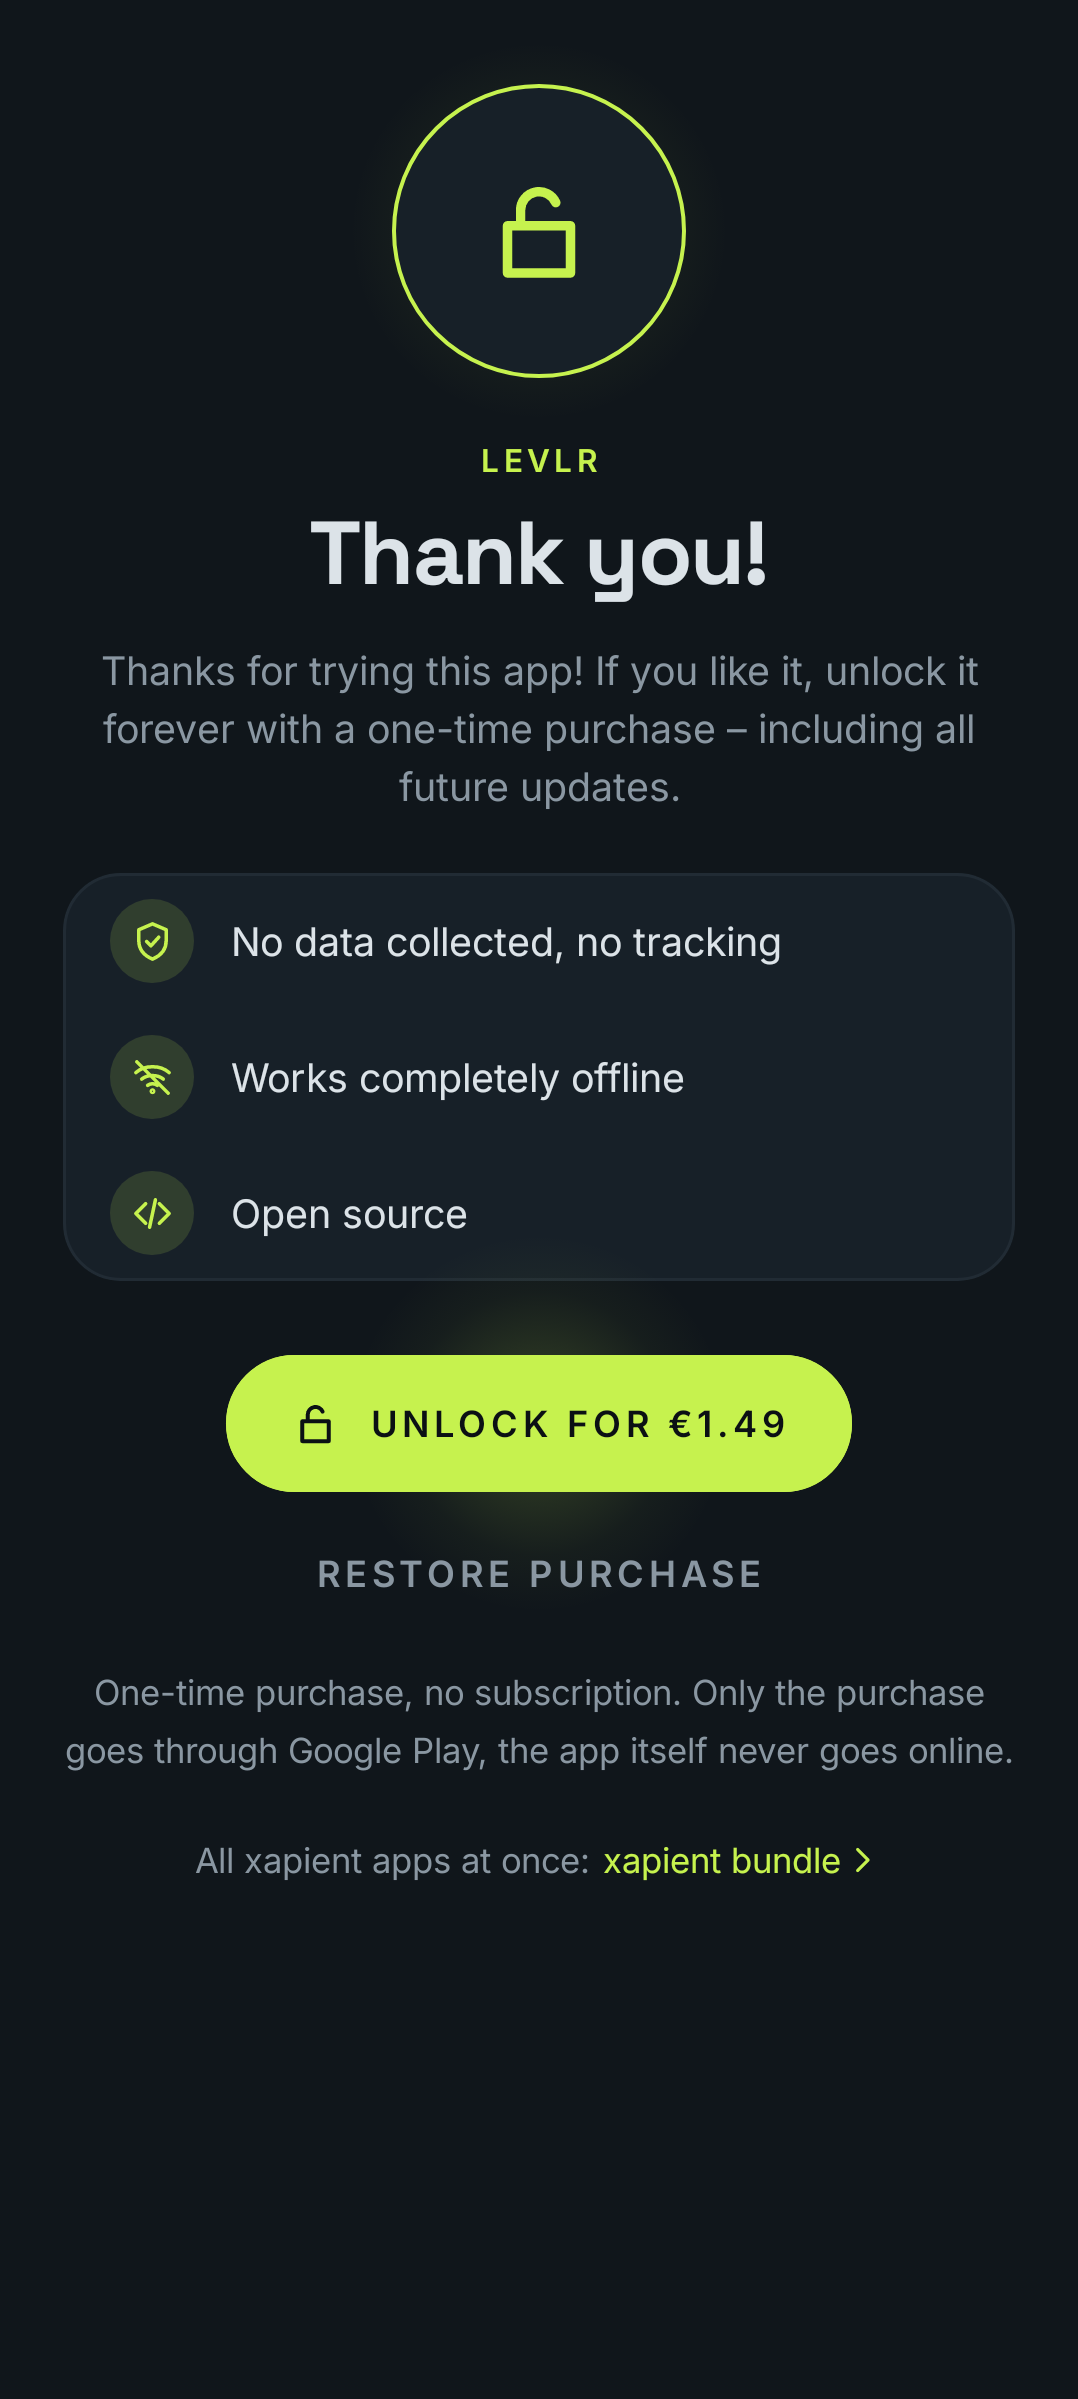
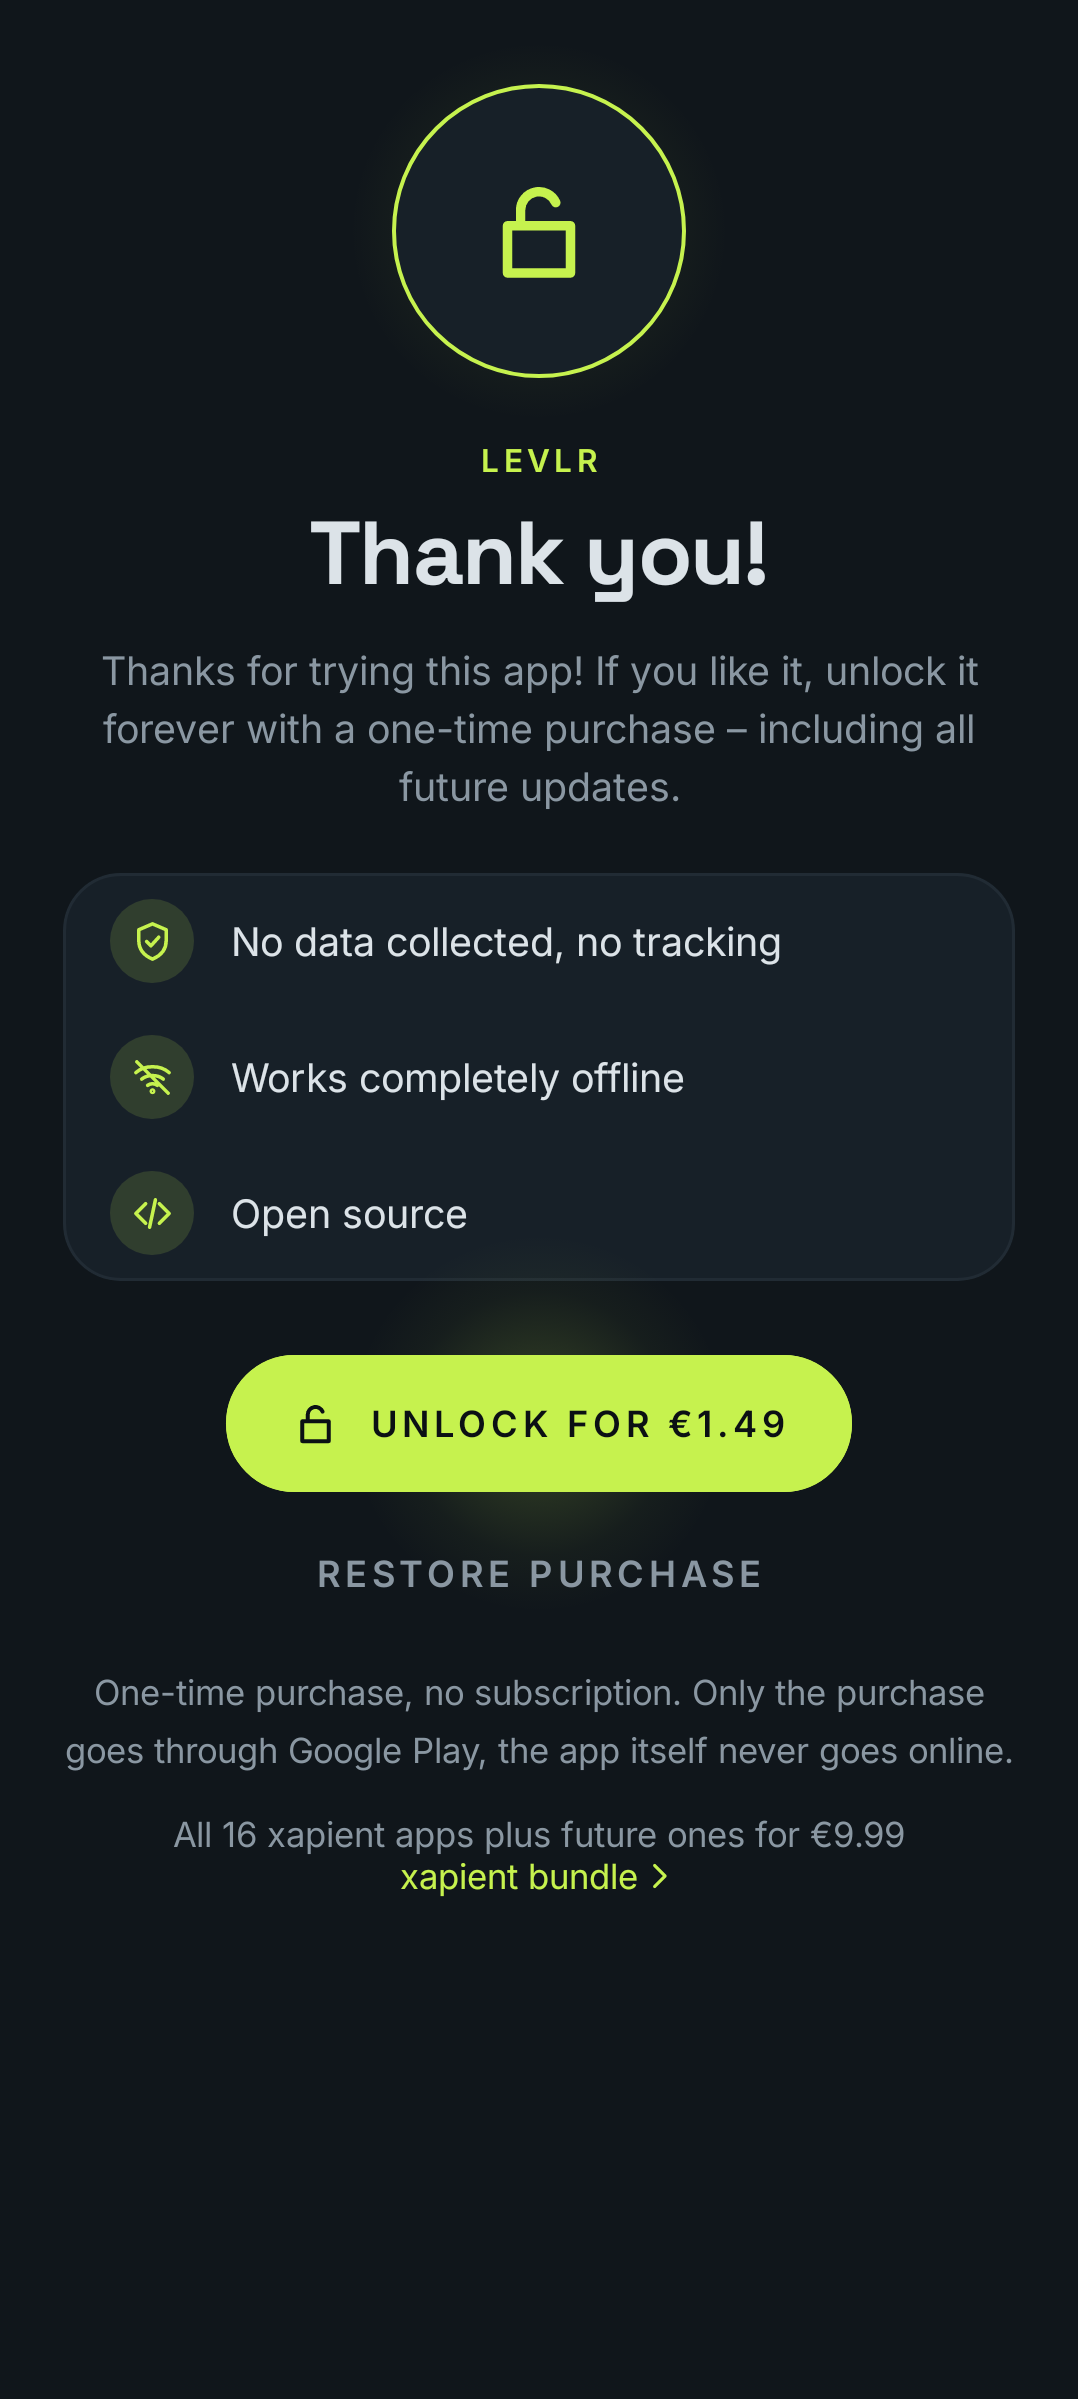
Dankes-Screen: Bundle-Hinweis mit Anzahl, kuenftigen Apps und Preis; Test Bundle ohne Sperre

Changed region(s): [[0.1837, 0.7403, 0.8265, 0.802]]

diff --git a/core/ui/src/androidMain/kotlin/solutions/xapient/aapps/core/ui/ThanksScreen.kt b/core/ui/src/androidMain/kotlin/solutions/xapient/aapps/core/ui/ThanksScreen.kt
@@ -3,11 +3,11 @@ package solutions.xapient.aapps.core.ui
 import androidx.compose.foundation.clickable
 import androidx.compose.foundation.interaction.MutableInteractionSource
 import androidx.compose.foundation.interaction.collectIsPressedAsState
+import androidx.compose.foundation.layout.Column
 import androidx.compose.foundation.layout.Row
-import androidx.compose.foundation.layout.Spacer
 import androidx.compose.foundation.layout.heightIn
 import androidx.compose.foundation.layout.padding
-import androidx.compose.foundation.layout.width
+import androidx.compose.foundation.layout.widthIn
 import androidx.compose.foundation.text.BasicText
 import androidx.compose.runtime.Composable
 import androidx.compose.runtime.getValue
@@ -17,6 +17,7 @@ import androidx.compose.ui.Modifier
 import androidx.compose.ui.platform.LocalContext
 import androidx.compose.ui.res.stringResource
 import androidx.compose.ui.semantics.Role
+import androidx.compose.ui.text.style.TextAlign
 import androidx.compose.ui.unit.dp
 import solutions.xapient.aapps.core.billing.BundleKey
 import solutions.xapient.aapps.core.billing.GateState
@@ -71,25 +72,27 @@ fun ThanksScreen(
     )
 }
 
-// Dezenter Verweis auf die Schluessel-App im Play Store
+// Dezenter Verweis auf die Schluessel-App im Play Store (Anzahl und Preis stehen im Text)
 @Composable
 private fun BundleLink() {
     val context = LocalContext.current
     val c = Aapps.colors
-    val small = Aapps.type.body.copy(fontSize = Aapps.type.label.fontSize * 1.1f)
+    val small = Aapps.type.body.copy(fontSize = Aapps.type.label.fontSize * 1.1f, textAlign = TextAlign.Center)
     val source = remember { MutableInteractionSource() }
     val pressed by source.collectIsPressedAsState()
-    Row(
+    Column(
         Modifier
             .pressScale(pressed)
             .clickable(source, indication = null, role = Role.Button) { BundleKey.openStore(context) }
+            .widthIn(max = 480.dp)
             .heightIn(min = 48.dp)
-            .padding(horizontal = 12.dp),
-        verticalAlignment = Alignment.CenterVertically,
+            .padding(horizontal = 12.dp, vertical = 6.dp),
+        horizontalAlignment = Alignment.CenterHorizontally,
     ) {
         BasicText(stringResource(BR.string.billing_bundle), style = small.copy(color = c.fgMuted))
-        Spacer(Modifier.width(5.dp))
-        BasicText(stringResource(BR.string.billing_bundle_name), style = small.copy(color = c.accent))
-        AappsIcon(AappsIcons.Chevron, null, c.accent, size = 16.dp)
+        Row(verticalAlignment = Alignment.CenterVertically) {
+            BasicText(stringResource(BR.string.billing_bundle_name), style = small.copy(color = c.accent))
+            AappsIcon(AappsIcons.Chevron, null, c.accent, size = 16.dp)
+        }
     }
 }

diff --git a/apps/sleepr/src/main/kotlin/solutions/xapient/sleepr/Pages.kt b/apps/sleepr/src/main/kotlin/solutions/xapient/sleepr/Pages.kt
@@ -170,7 +170,7 @@ class Pages(private val a: Activity, private val look: Look) {
                 }, lp(w = ViewGroup.LayoutParams.WRAP_CONTENT, top = 8))
                 addView(center(small(a.getString(BR.string.billing_once))), lp(w = ViewGroup.LayoutParams.WRAP_CONTENT, top = 12))
                 // dezenter Verweis auf die Schluessel-App im Play Store
-                val bundle = SpannableString(a.getString(BR.string.billing_bundle) + " " + a.getString(BR.string.billing_bundle_name) + " ›")
+                val bundle = SpannableString(a.getString(BR.string.billing_bundle) + "\n" + a.getString(BR.string.billing_bundle_name) + " ›")
                 bundle.setSpan(ForegroundColorSpan(accent), a.getString(BR.string.billing_bundle).length + 1, bundle.length, 0)
                 addView(center(small(bundle)).apply {
                     minHeight = dp(48); setPadding(dp(12), 0, dp(12), 0)

diff --git a/apps/levlr/src/test/kotlin/solutions/xapient/levlr/TrialGatedTest.kt b/apps/levlr/src/test/kotlin/solutions/xapient/levlr/TrialGatedTest.kt
@@ -85,4 +85,18 @@ class TrialGatedTest {
         compose.setContent { TrialGated(LevlrAccent) { BasicText("APP") } }
         compose.onNodeWithText("APP").assertExists()
     }
+
+    @Test fun validBundleNeverShowsTrialOrPurchaseScreen() {
+        prefs.edit().clear().putLong(TrialGate.KEY_FIRST, 0L).commit()
+        owned = Owned.NONE
+        TrialGate.factory = { TrialGate(prefs, fake, { true }) { TrialPolicy.TRIAL_MS * 9 } }
+        compose.setContent { TrialGated(LevlrAccent) { BasicText("APP") } }
+        compose.onNodeWithText("APP").assertExists()
+        compose.onNodeWithText("RESTORE PURCHASE").assertDoesNotExist()
+    }
+
+    @Test fun thanksScreenLinksToBundle() {
+        start(TrialPolicy.TRIAL_MS)
+        compose.onNodeWithText("xapient bundle").performScrollTo().assertExists()
+    }
 }
